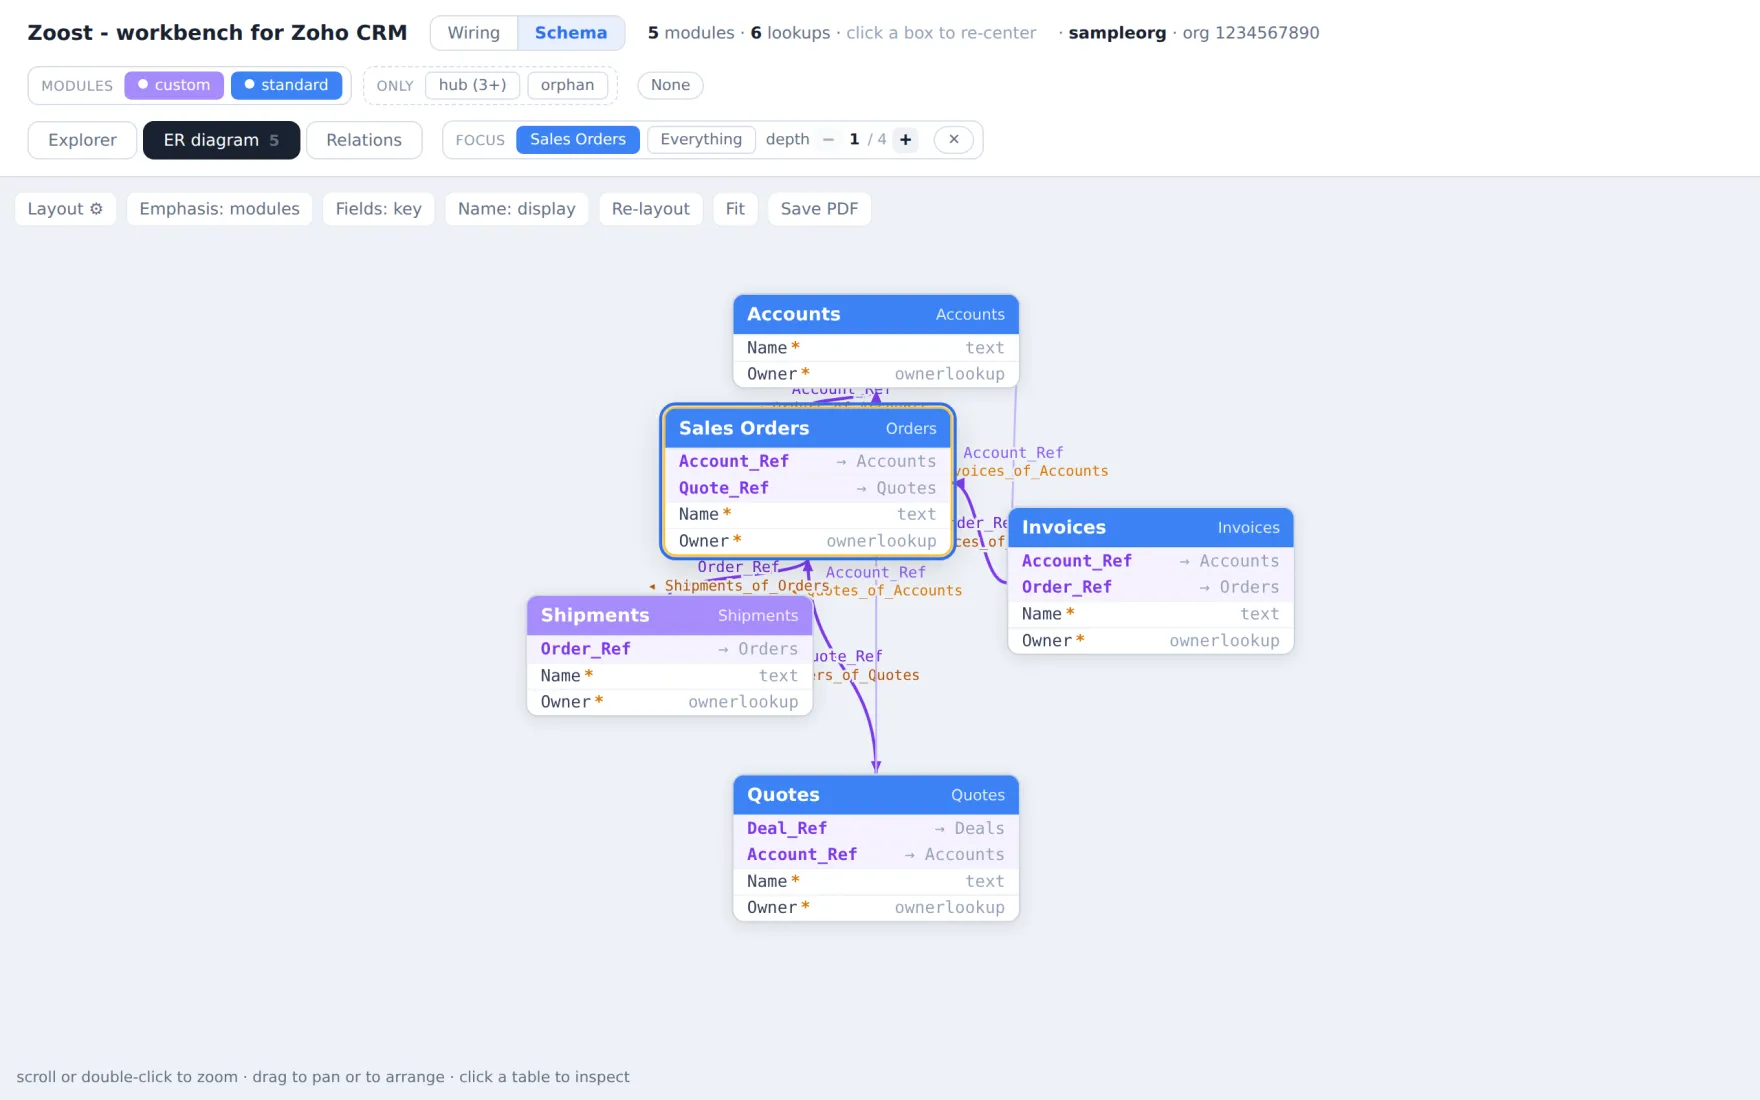
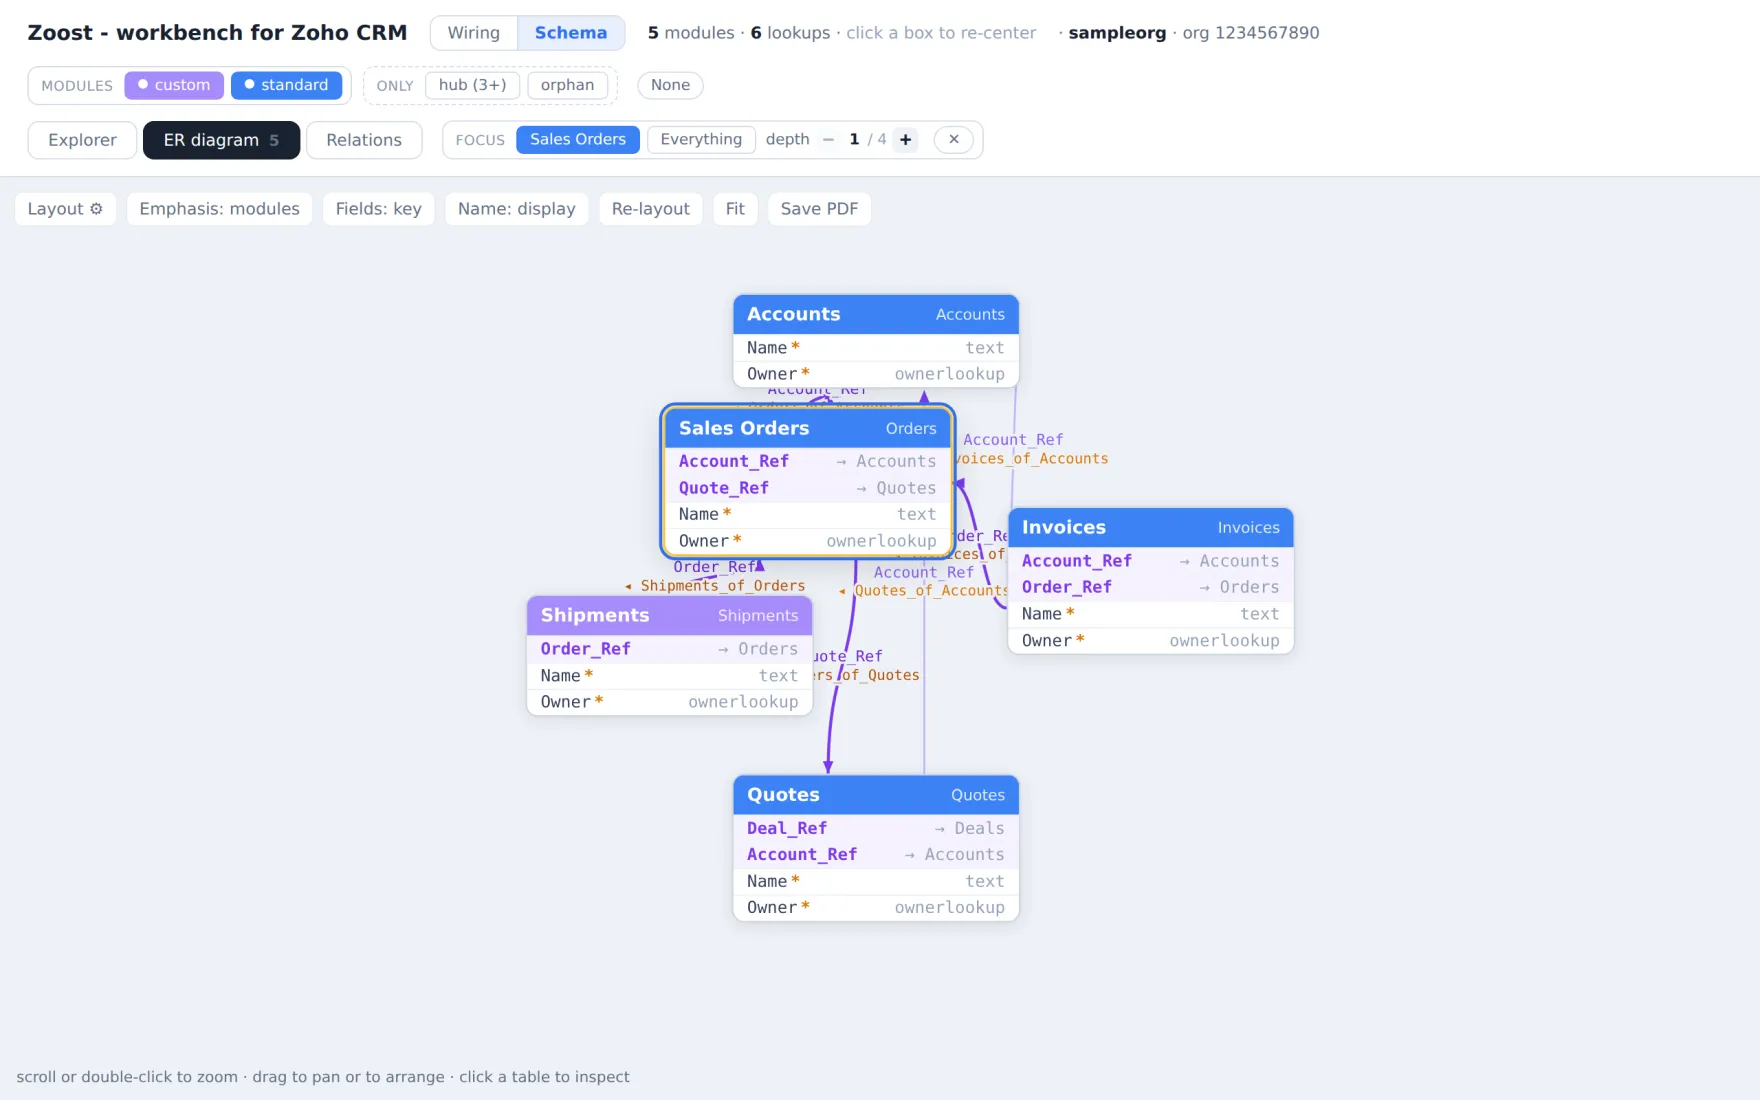
Seven arcs arriving from above arrived at one point, so each side shares its width now
Reported with a picture: arcs converging on a box all met the middle of the side, so you
could not tell which was which by looking - which is the complaint this window opened with -
and clicking one of them selected whichever was on top. The interface was asked to
disambiguate the click; the drawing is what is ambiguous, so that is what changed.

Each side now shares its width between the arcs that use it, ordered by where the other end
lies so the order along the edge matches the order on screen and the fan does not cross
itself. A lone arc still gets the exact middle, so nothing that was already unambiguous
moves - which is also why the five-box fixture looks the same either way.

Stated rather than claimed: the win is on a dense box, and the fixtures here do not have
one. Its case holds the two invariants - n arcs are n distinct points in far-end order, and
one arc is where it always was - but a test cannot say whether seven of them now read
clearly, and the shipped screenshots cannot show it. That needs an org with the density,
and the one that reported it is not in this repository.

Changed region(s): [[0.375, 0.4636, 0.5938, 0.7109], [0.5312, 0.4018, 0.625, 0.4327], [0.4375, 0.34, 0.5, 0.3709]]

diff --git a/apps/analytics/graphview.js b/apps/analytics/graphview.js
@@ -1389,15 +1389,57 @@ function erLayout() {
 // So the side is chosen by the dominant direction. The caller needs to know which it was, because
 // the bezier's control points have to be pulled along the same axis or the curve leaves the box
 // sideways again.
-function erEdgePoints(A, B) {
+// Which side of A the arc to B leaves from. Split out because the slot pass below has to make the
+// same decision before anything is drawn.
+function erSideOf(A, B) {
+  const acx = A.x + A.w / 2, acy = A.y + A.h / 2, bcx = B.x + B.w / 2, bcy = B.y + B.h / 2;
+  if (Math.abs(bcy - acy) > Math.abs(bcx - acx)) return bcy >= acy ? 'b' : 't';
+  return bcx >= acx ? 'r' : 'l';
+}
+/** Where each arc meets each box, as a share of the side it arrives on.
+ *
+ * Every arc used to meet the *middle* of its side, so seven arriving from above arrived at one point:
+ * you could not tell them apart by looking, which is the complaint this window opened with, and you
+ * could not click the one you meant either. Each side now shares its width between the arcs that use
+ * it. They are ordered by where the other end lies, so the order along the edge matches the order on
+ * screen and the fan does not cross itself. One arc on a side still gets the middle, so nothing that
+ * was already unambiguous moves.
+ */
+function erComputeSlots(pairs) {
+  const groups = new Map();
+  const push = (id, side, key, along) => {
+    const k = id + '\u0001' + side;
+    const g = groups.get(k);
+    if (g) g.push({ key, along }); else groups.set(k, [{ key, along }]);
+  };
+  pairs.forEach(([a, b]) => {
+    const A = erPos[a], B = erPos[b];
+    if (!A || !B) return;
+    const sa = erSideOf(A, B), sb = erSideOf(B, A), key = ekey(a, b);
+    push(a, sa, key, (sa === 't' || sa === 'b') ? B.x + B.w / 2 : B.y + B.h / 2);
+    push(b, sb, key, (sb === 't' || sb === 'b') ? A.x + A.w / 2 : A.y + A.h / 2);
+  });
+  const slots = new Map();
+  groups.forEach((list, k) => {
+    const id = k.slice(0, k.indexOf('\u0001'));
+    // by where the other end lies, then by key so the order cannot depend on iteration accidents
+    list.sort((p, q) => p.along - q.along || (p.key < q.key ? -1 : 1));
+    list.forEach((e, i) => slots.set(e.key + '\u0001' + id, { i, n: list.length }));
+  });
+  return slots;
+}
+function erEdgePoints(A, B, sa, sb) {
+  // A share of the side rather than its middle. (i+1)/(n+1) keeps the first and last off the corners
+  // and gives a lone arc exactly the middle, which is where it used to be.
+  const fa = sa ? (sa.i + 1) / (sa.n + 1) : 0.5, fb = sb ? (sb.i + 1) / (sb.n + 1) : 0.5;
   const acx = A.x + A.w / 2, acy = A.y + A.h / 2;
   const bcx = B.x + B.w / 2, bcy = B.y + B.h / 2;
   if (Math.abs(bcy - acy) > Math.abs(bcx - acx)) {
     const down = bcy >= acy;
-    return [acx, down ? A.y + A.h : A.y, bcx, down ? B.y : B.y + B.h, 'v'];
+    return [A.x + A.w * fa, down ? A.y + A.h : A.y, B.x + B.w * fb, down ? B.y : B.y + B.h, 'v'];
   }
   const right = bcx >= acx;
-  return [right ? A.x + A.w : A.x, acy, right ? B.x : B.x + B.w, bcy, 'h'];
+  return [right ? A.x + A.w : A.x, A.y + A.h * fa, right ? B.x : B.x + B.w, B.y + B.h * fb, 'h'];
 }
 function erApply() {
   $('ervp').style.transform = `translate(${erTx}px,${erTy}px) scale(${erScale})`;
@@ -1464,9 +1506,13 @@ function erRender() {
   // --- pass 1: draw the links, collect the label descriptors ---
   const labels = [];
   const REL = erEmph === 'relations';
+  const erSlotMap = erComputeSlots(edgesA.filter(([a, b]) => shown.has(a) && shown.has(b)));
   edgesA.forEach(([a, b]) => {
     if (!shown.has(a) || !shown.has(b)) return;
-    const A = erPos[a], B = erPos[b]; const [x1, y1, x2, y2, axis] = erEdgePoints(A, B);
+    const A = erPos[a], B = erPos[b];
+    const ek = ekey(a, b);
+    const [x1, y1, x2, y2, axis] = erEdgePoints(A, B,
+      erSlotMap.get(ek + '\u0001' + a), erSlotMap.get(ek + '\u0001' + b));
     const mx = (x1 + x2) / 2, my = (y1 + y2) / 2;
     const curve = axis === 'v' ? `C${x1},${my} ${x2},${my} ${x2},${y2}` : `C${mx},${y1} ${mx},${y2} ${x2},${y2}`;
     const hot = (a === sel || b === sel);

diff --git a/apps/crm/graphview.js b/apps/crm/graphview.js
@@ -1694,15 +1694,57 @@ function erLayout() {
 // So the side is chosen by the dominant direction. The caller needs to know which it was, because
 // the bezier's control points have to be pulled along the same axis or the curve leaves the box
 // sideways again.
-function erEdgePoints(A, B) {
+// Which side of A the arc to B leaves from. Split out because the slot pass below has to make the
+// same decision before anything is drawn.
+function erSideOf(A, B) {
+  const acx = A.x + A.w / 2, acy = A.y + A.h / 2, bcx = B.x + B.w / 2, bcy = B.y + B.h / 2;
+  if (Math.abs(bcy - acy) > Math.abs(bcx - acx)) return bcy >= acy ? 'b' : 't';
+  return bcx >= acx ? 'r' : 'l';
+}
+/** Where each arc meets each box, as a share of the side it arrives on.
+ *
+ * Every arc used to meet the *middle* of its side, so seven arriving from above arrived at one point:
+ * you could not tell them apart by looking, which is the complaint this window opened with, and you
+ * could not click the one you meant either. Each side now shares its width between the arcs that use
+ * it. They are ordered by where the other end lies, so the order along the edge matches the order on
+ * screen and the fan does not cross itself. One arc on a side still gets the middle, so nothing that
+ * was already unambiguous moves.
+ */
+function erComputeSlots(pairs) {
+  const groups = new Map();
+  const push = (id, side, key, along) => {
+    const k = id + '\u0001' + side;
+    const g = groups.get(k);
+    if (g) g.push({ key, along }); else groups.set(k, [{ key, along }]);
+  };
+  pairs.forEach(([a, b]) => {
+    const A = erPos[a], B = erPos[b];
+    if (!A || !B) return;
+    const sa = erSideOf(A, B), sb = erSideOf(B, A), key = ekey(a, b);
+    push(a, sa, key, (sa === 't' || sa === 'b') ? B.x + B.w / 2 : B.y + B.h / 2);
+    push(b, sb, key, (sb === 't' || sb === 'b') ? A.x + A.w / 2 : A.y + A.h / 2);
+  });
+  const slots = new Map();
+  groups.forEach((list, k) => {
+    const id = k.slice(0, k.indexOf('\u0001'));
+    // by where the other end lies, then by key so the order cannot depend on iteration accidents
+    list.sort((p, q) => p.along - q.along || (p.key < q.key ? -1 : 1));
+    list.forEach((e, i) => slots.set(e.key + '\u0001' + id, { i, n: list.length }));
+  });
+  return slots;
+}
+function erEdgePoints(A, B, sa, sb) {
+  // A share of the side rather than its middle. (i+1)/(n+1) keeps the first and last off the corners
+  // and gives a lone arc exactly the middle, which is where it used to be.
+  const fa = sa ? (sa.i + 1) / (sa.n + 1) : 0.5, fb = sb ? (sb.i + 1) / (sb.n + 1) : 0.5;
   const acx = A.x + A.w / 2, acy = A.y + A.h / 2;
   const bcx = B.x + B.w / 2, bcy = B.y + B.h / 2;
   if (Math.abs(bcy - acy) > Math.abs(bcx - acx)) {
     const down = bcy >= acy;
-    return [acx, down ? A.y + A.h : A.y, bcx, down ? B.y : B.y + B.h, 'v'];
+    return [A.x + A.w * fa, down ? A.y + A.h : A.y, B.x + B.w * fb, down ? B.y : B.y + B.h, 'v'];
   }
   const right = bcx >= acx;
-  return [right ? A.x + A.w : A.x, acy, right ? B.x : B.x + B.w, bcy, 'h'];
+  return [right ? A.x + A.w : A.x, A.y + A.h * fa, right ? B.x : B.x + B.w, B.y + B.h * fb, 'h'];
 }
 function erApply() {
   $('ervp').style.transform = `translate(${erTx}px,${erTy}px) scale(${erScale})`;
@@ -1778,9 +1820,13 @@ function erRender() {
   // --- pass 1: draw the links, collect the label descriptors ---
   const labels = [];
   const REL = erEmph === 'relations';
+  const erSlotMap = erComputeSlots(edgesA.filter(([a, b]) => shown.has(a) && shown.has(b)));
   edgesA.forEach(([a, b]) => {
     if (!shown.has(a) || !shown.has(b)) return;
-    const A = erPos[a], B = erPos[b]; const [x1, y1, x2, y2, axis] = erEdgePoints(A, B);
+    const A = erPos[a], B = erPos[b];
+    const ek = ekey(a, b);
+    const [x1, y1, x2, y2, axis] = erEdgePoints(A, B,
+      erSlotMap.get(ek + '\u0001' + a), erSlotMap.get(ek + '\u0001' + b));
     const mx = (x1 + x2) / 2, my = (y1 + y2) / 2;
     const curve = axis === 'v' ? `C${x1},${my} ${x2},${my} ${x2},${y2}` : `C${mx},${y1} ${mx},${y2} ${x2},${y2}`;
     const hot = (a === sel || b === sel);

diff --git a/site/docs-crm.html b/site/docs-crm.html
@@ -376,13 +376,13 @@ git commit -m "baseline"</code></pre>
     The <b>Explorer</b> and a focused <b>Wiring</b> stay fast at any org size; use a focus and a small depth.</p>
 
   <figure class="shot">
-    <img src="/img/crm-graph.webp?v=08094541a2" width="1760" height="1100" loading="lazy" decoding="async"
+    <img src="/img/crm-graph.webp?v=6dd4760ba6" width="1760" height="1100" loading="lazy" decoding="async"
          alt="The call graph window: functions, workflows, schedules and connections as boxes joined by arrows.">
     <figcaption>Chapter 6: the diagram window. The chips at the top are the filter and the colour key at once, and they steer all three views.</figcaption>
   </figure>
 
   <figure class="shot">
-    <img src="/img/crm-er.webp?v=51141fd82e" width="1760" height="1100" loading="lazy" decoding="async"
+    <img src="/img/crm-er.webp?v=e671862261" width="1760" height="1100" loading="lazy" decoding="async"
          alt="The ER diagram: modules as boxes listing their fields, joined by their lookups.">
     <figcaption>The other drawing in the same window: modules as tables, lookups as arrows, focusable and printable wall-size.</figcaption>
   </figure>

diff --git a/site/it/docs-crm.html b/site/it/docs-crm.html
@@ -400,13 +400,13 @@ git commit -m "baseline"</code></pre>
     fuoco e una profondità piccola.</p>
 
   <figure class="shot">
-    <img src="/img/crm-graph.webp?v=08094541a2" width="1760" height="1100" loading="lazy" decoding="async"
+    <img src="/img/crm-graph.webp?v=6dd4760ba6" width="1760" height="1100" loading="lazy" decoding="async"
          alt="La finestra del grafo delle chiamate: funzioni, workflow, schedulazioni e connessioni come riquadri uniti da frecce.">
     <figcaption>Capitolo 6: la finestra del diagramma. I chip in alto sono insieme il filtro e la legenda dei colori, e comandano tutte e tre le viste.</figcaption>
   </figure>
 
   <figure class="shot">
-    <img src="/img/crm-er.webp?v=51141fd82e" width="1760" height="1100" loading="lazy" decoding="async"
+    <img src="/img/crm-er.webp?v=e671862261" width="1760" height="1100" loading="lazy" decoding="async"
          alt="Il diagramma ER: i moduli come riquadri con i loro campi, uniti dai lookup.">
     <figcaption>L'altro disegno nella stessa finestra: i moduli come tabelle, i lookup come frecce, focalizzabile e stampabile a parete.</figcaption>
   </figure>

diff --git a/site/it/index.html b/site/it/index.html
@@ -246,7 +246,7 @@
       su design, codice e testi. Le decisioni, e la responsabilità di come vengono, restano mie.</p>
   
       <figure class="shot">
-        <img src="/img/analytics-er.webp?v=2bfcf6abfb" width="1760" height="1100" loading="lazy" decoding="async"
+        <img src="/img/analytics-er.webp?v=38879b4cd2" width="1760" height="1100" loading="lazy" decoding="async"
              alt="Il diagramma ER di un workspace Zoho Analytics: le tabelle come riquadri con le colonne, unite dalle relazioni.">
         <figcaption><b>Zoost Analytics.</b> Lo stesso tipo di strumento un prodotto più in là: il workspace disegnato, ogni join scritto come lo scrive Zoho Analytics.</figcaption>
       </figure>

diff --git a/site/it/crm.html b/site/it/crm.html
@@ -241,7 +241,7 @@
     </div>
   
       <figure class="shot">
-        <img src="/img/crm-graph.webp?v=08094541a2" width="1760" height="1100" loading="lazy" decoding="async"
+        <img src="/img/crm-graph.webp?v=6dd4760ba6" width="1760" height="1100" loading="lazy" decoding="async"
              alt="Il grafo delle chiamate: riquadri per funzioni, workflow, schedulazioni e connessioni, uniti dalle frecce di chi chiama chi.">
         <figcaption><b>La mappa.</b> A fuoco su una funzione, due passi intorno. Anche workflow, schedulazioni e connessioni sono nodi: vedi cosa <em>fa partire</em> il codice e cosa raggiunge; una connessione che non usa nessuno salta all'occhio.</figcaption>
       </figure>

diff --git a/site/crm.html b/site/crm.html
@@ -233,7 +233,7 @@
     </div>
   
       <figure class="shot">
-        <img src="/img/crm-graph.webp?v=08094541a2" width="1760" height="1100" loading="lazy" decoding="async"
+        <img src="/img/crm-graph.webp?v=6dd4760ba6" width="1760" height="1100" loading="lazy" decoding="async"
              alt="The call graph: boxes for functions, workflows, schedules and connections, joined by arrows for what calls what.">
         <figcaption><b>The map.</b> Focused on one function, two steps out. Workflows, schedules and connections are nodes too, so you see what <em>starts</em> the code and what it reaches - and a connection nothing uses stands out.</figcaption>
       </figure>

diff --git a/site/index.html b/site/index.html
@@ -236,7 +236,7 @@
       result, are mine.</p>
   
       <figure class="shot">
-        <img src="/img/analytics-er.webp?v=2bfcf6abfb" width="1760" height="1100" loading="lazy" decoding="async"
+        <img src="/img/analytics-er.webp?v=38879b4cd2" width="1760" height="1100" loading="lazy" decoding="async"
              alt="The ER diagram of a Zoho Analytics workspace: tables as boxes with their columns, joined by their relations.">
         <figcaption><b>Zoost Analytics.</b> The same shape of tool one product over: the workspace drawn, every join written the way Zoho Analytics writes it.</figcaption>
       </figure>

diff --git a/site/it/analytics.html b/site/it/analytics.html
@@ -239,7 +239,7 @@
       </figure>
     
       <figure class="shot">
-        <img src="/img/analytics-er.webp?v=2bfcf6abfb" width="1760" height="1100" loading="lazy" decoding="async"
+        <img src="/img/analytics-er.webp?v=38879b4cd2" width="1760" height="1100" loading="lazy" decoding="async"
              alt="Il diagramma ER del workspace: le tabelle come riquadri con le loro colonne, unite dalle relazioni.">
         <figcaption><b>Il diagramma ER.</b> Ogni join scritto come lo scrive Zoho Analytics, non riscritto con parole mie - metti a fuoco una tabella e cammina da lì.</figcaption>
       </figure>

diff --git a/site/analytics.html b/site/analytics.html
@@ -231,7 +231,7 @@
       </figure>
     
       <figure class="shot">
-        <img src="/img/analytics-er.webp?v=2bfcf6abfb" width="1760" height="1100" loading="lazy" decoding="async"
+        <img src="/img/analytics-er.webp?v=38879b4cd2" width="1760" height="1100" loading="lazy" decoding="async"
              alt="The ER diagram of the workspace: tables as boxes with their columns, joined by their relations.">
         <figcaption><b>The ER diagram.</b> Every join written the way Zoho Analytics writes it, not re-rendered in my words - focus one table and walk out from it.</figcaption>
       </figure>

diff --git a/site/it/docs-analytics.html b/site/it/docs-analytics.html
@@ -308,7 +308,7 @@ git init &amp;&amp; git add -A &amp;&amp; git commit -m "initial mirror"</code><
     join, e ogni join si può copiare.</p>
 
   <figure class="shot">
-    <img src="/img/analytics-er.webp?v=2bfcf6abfb" width="1760" height="1100" loading="lazy" decoding="async"
+    <img src="/img/analytics-er.webp?v=38879b4cd2" width="1760" height="1100" loading="lazy" decoding="async"
          alt="Il diagramma ER del workspace, le tabelle unite dalle loro relazioni.">
     <figcaption>Il diagramma ER: metti a fuoco una tabella e cammina da lì.</figcaption>
   </figure>

diff --git a/site/docs-analytics.html b/site/docs-analytics.html
@@ -286,7 +286,7 @@ git init &amp;&amp; git add -A &amp;&amp; git commit -m "initial mirror"</code><
     and every join copyable.</p>
 
   <figure class="shot">
-    <img src="/img/analytics-er.webp?v=2bfcf6abfb" width="1760" height="1100" loading="lazy" decoding="async"
+    <img src="/img/analytics-er.webp?v=38879b4cd2" width="1760" height="1100" loading="lazy" decoding="async"
          alt="The ER diagram of the workspace, tables joined by their relations.">
     <figcaption>The ER diagram: focus one table and walk out from it.</figcaption>
   </figure>
